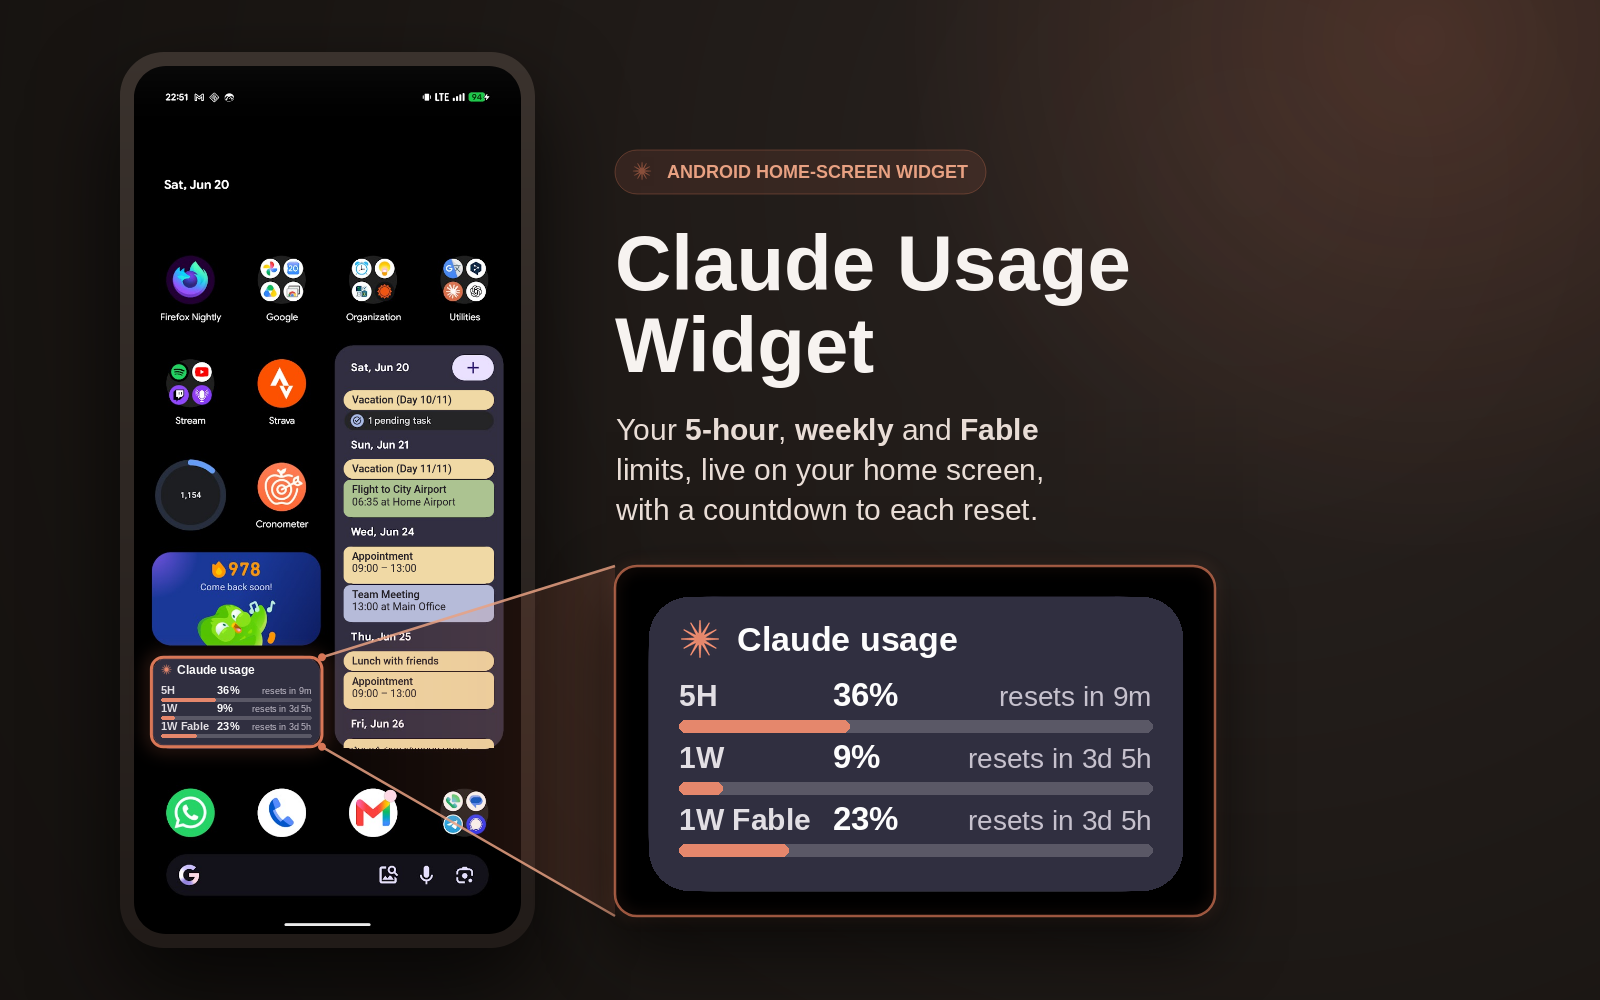
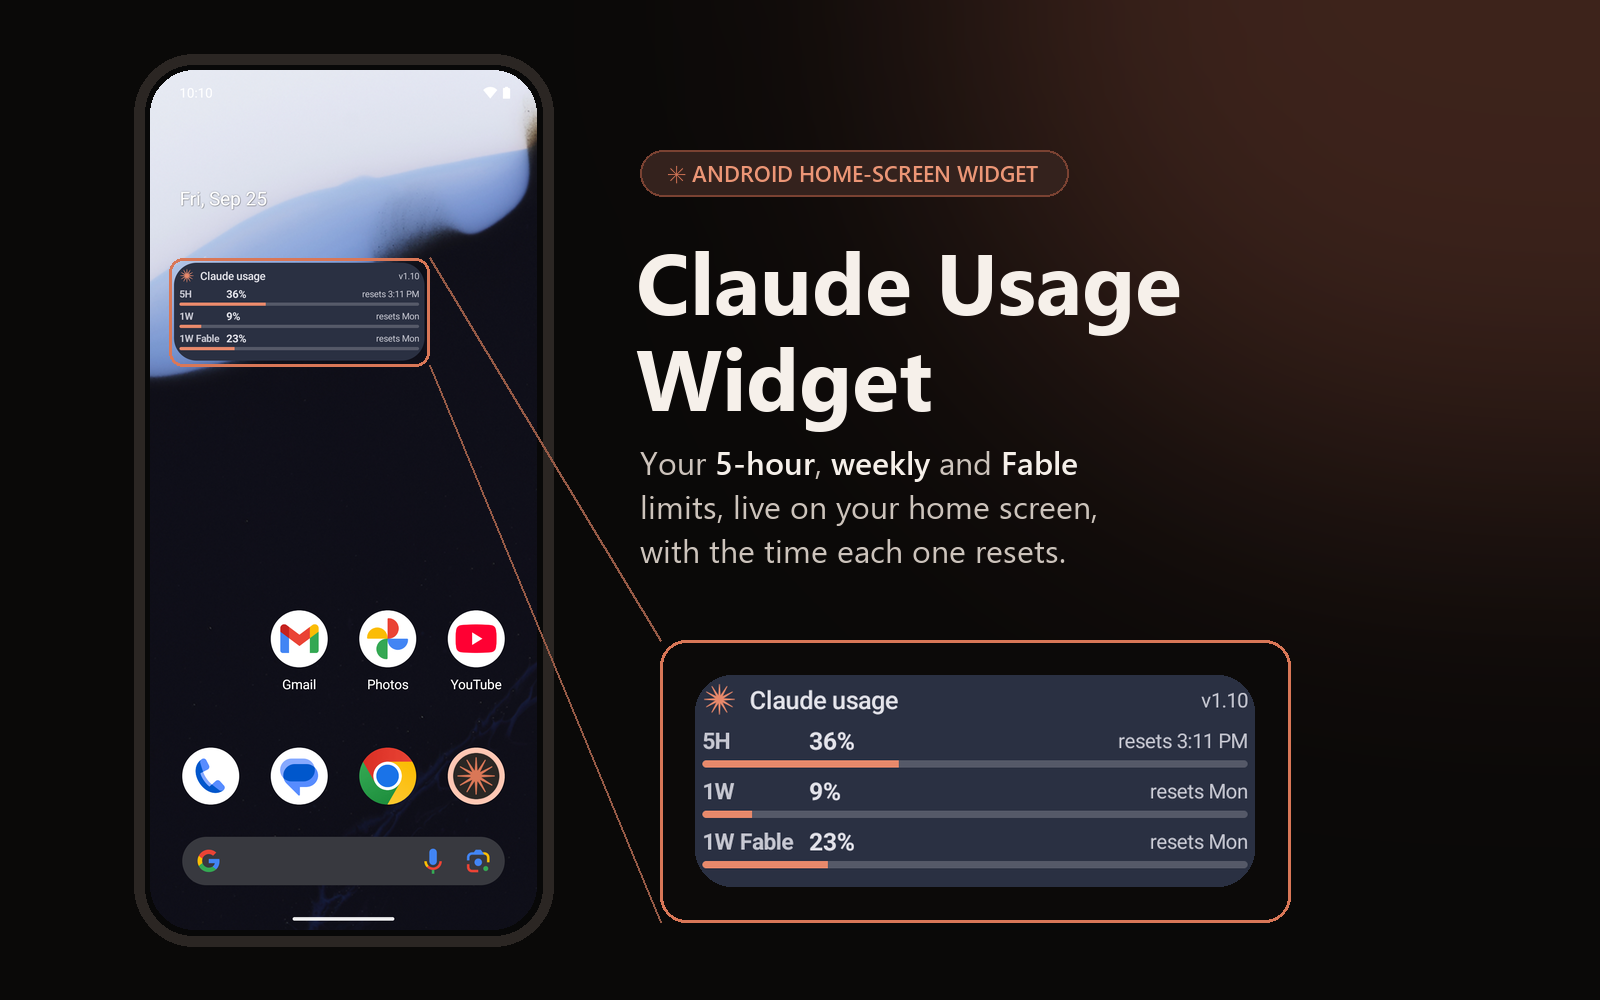
Widget: stacked layout on a one-row (3x1) widget; README screenshots
The stacked layout (header + 5H / 1W / model rows, each with a bar) never appeared on a
one-row widget: SizeMode.Responsive snapped a ~104 dp tall widget to the 140x50 bucket,
which only has the side-by-side layout. The widget now uses SizeMode.Exact and the
stacked layout interpolates its type and spacing between a dense one-row size and the
original roomy look, so a 3x1 widget shows the full stack. Side-by-side remains for a
widget squeezed below a normal row.

README: new promo image (the 3x1 stacked widget, dark mode) and a watch-faces image
(Claude Grid and Claude Terminal on the tactix 8) in the Garmin section; layout text
updated to match.

diff --git a/app/src/main/java/com/usage/claudewidget/widget/UsageGlanceUi.kt b/app/src/main/java/com/usage/claudewidget/widget/UsageGlanceUi.kt
@@ -55,12 +55,18 @@ data class WidgetState(
 
 private val COMPACT_MAX_WIDTH = 130.dp
 /**
- * One home-screen row leaves no room to stack three meters, so a wide-but-short
- * widget sets them side by side instead of clipping the last one off the bottom.
+ * Below this height even the dense stacked layout can't fit three meters, so the widget sets
+ * them side by side instead of clipping the last one off the bottom. (One home-screen row is a
+ * little under 110 dp on a Pixel - tall enough for the dense stacked layout below.)
  */
-private val SHORT_MAX_HEIGHT = 80.dp
-/** Heights below which three meters leave no room for the Claude mark above them. */
-private val FULL_MARK_MIN_HEIGHT = 130.dp
+private val SHORT_MAX_HEIGHT = 70.dp
+/** Below this height the stacked layout switches to its dense sizing (one-row widgets). */
+private val DENSE_MAX_HEIGHT = 130.dp
+/**
+ * The stacked layout with its "Claude usage" header needs about this much height at its densest
+ * (measured on the emulator: 77 dp of content + 12 dp padding). It keeps the header down to here.
+ */
+private val DENSE_MARK_MIN_HEIGHT = 89.dp
 private val COMPACT_MARK_MIN_HEIGHT = 100.dp
 /** Below this width the "resets" prefix is dropped and only the reset time is shown. */
 private val RESET_PREFIX_MIN_WIDTH = 220.dp
@@ -74,6 +80,7 @@ fun UsageWidgetContent(state: WidgetState) {
     val size = LocalSize.current
     val compact = size.width < COMPACT_MAX_WIDTH
     val short = !compact && size.height < SHORT_MAX_HEIGHT
+    val dense = size.height < DENSE_MAX_HEIGHT
     val context = LocalContext.current
 
     val tap = if (state.needsLogin) {
@@ -87,7 +94,7 @@ fun UsageWidgetContent(state: WidgetState) {
             .fillMaxSize()
             .background(GlanceTheme.colors.widgetBackground)
             .cornerRadius(20.dp)
-            .padding(if (short) 6.dp else if (compact) 8.dp else 10.dp)
+            .padding(if (short || dense) 6.dp else if (compact) 8.dp else 10.dp)
             .clickable(tap),
     ) {
         when {
@@ -97,30 +104,71 @@ fun UsageWidgetContent(state: WidgetState) {
             compact -> CompactLayout(state, showMark = size.height >= COMPACT_MARK_MIN_HEIGHT)
             else -> FullLayout(
                 state,
-                showMark = size.height >= FULL_MARK_MIN_HEIGHT,
+                showMark = !dense || size.height >= DENSE_MARK_MIN_HEIGHT,
                 showResetPrefix = size.width >= RESET_PREFIX_MIN_WIDTH,
+                d = stackDims(size.height),
             )
         }
         if (state.hasData && state.stale) StaleDot()
     }
 }
 
+/**
+ * Sizes for the stacked layout. REGULAR is the original roomy look (two rows and up); DENSE is
+ * the same header + three meter rows with bars, tightened to fit a single home-screen row.
+ * [stackDims] interpolates between them by the widget's real height, so a one-row widget fills
+ * its row (a Pixel row is ~104 dp) instead of leaving a gap or clipping.
+ */
+private data class StackDims(
+    val markDp: Float, val titleSp: Float, val versionSp: Float, val headerGap: Float,
+    val labelSp: Float, val labelW: Float, val pctSp: Float, val resetSp: Float,
+    val barGap: Float, val barDp: Float, val rowGap: Float,
+)
+
+private fun stackDims(height: androidx.compose.ui.unit.Dp): StackDims {
+    // t = 0 at the densest height the header layout needs, 1 at the regular layout's height;
+    // the dense layout grows roughly one-for-one with height between them, so it stays full.
+    // (+6 dp keeps a little air under the last bar instead of packing the row edge to edge.)
+    val t = ((height.value - DENSE_MARK_MIN_HEIGHT.value - 6f) /
+        (DENSE_MAX_HEIGHT.value - DENSE_MARK_MIN_HEIGHT.value - 6f)).coerceIn(0f, 1f)
+    fun mix(a: Float, b: Float) = a + (b - a) * t
+    val a = DENSE
+    val b = REGULAR
+    return StackDims(
+        mix(a.markDp, b.markDp), mix(a.titleSp, b.titleSp), mix(a.versionSp, b.versionSp),
+        mix(a.headerGap, b.headerGap), mix(a.labelSp, b.labelSp), mix(a.labelW, b.labelW),
+        mix(a.pctSp, b.pctSp), mix(a.resetSp, b.resetSp), mix(a.barGap, b.barGap),
+        mix(a.barDp, b.barDp), mix(a.rowGap, b.rowGap),
+    )
+}
+
+private val REGULAR = StackDims(
+    markDp = 22f, titleSp = 14f, versionSp = 11f, headerGap = 8f,
+    labelSp = 12f, labelW = 56f, pctSp = 13f, resetSp = 11f, barGap = 3f, barDp = 5f, rowGap = 6f,
+)
+private val DENSE = StackDims(
+    markDp = 14f, titleSp = 11f, versionSp = 9f, headerGap = 2f,
+    labelSp = 10f, labelW = 48f, pctSp = 11f, resetSp = 9f, barGap = 1f, barDp = 3f, rowGap = 2f,
+)
+
 @Composable
-private fun FullLayout(s: WidgetState, showMark: Boolean, showResetPrefix: Boolean) {
+private fun FullLayout(s: WidgetState, showMark: Boolean, showResetPrefix: Boolean, d: StackDims) {
     Column(modifier = GlanceModifier.fillMaxSize()) {
         if (showMark) {
             Row(
                 modifier = GlanceModifier.fillMaxWidth(),
                 verticalAlignment = Alignment.CenterVertically,
             ) {
-                ClaudeMark(22.dp)
+                ClaudeMark(d.markDp.dp)
                 Spacer(GlanceModifier.width(6.dp))
                 Text(
                     "Claude usage",
                     style = TextStyle(
                         color = GlanceTheme.colors.onSurface,
                         fontWeight = FontWeight.Medium,
+                        fontSize = d.titleSp.sp,
                     ),
+                    maxLines = 1,
                 )
                 Spacer(GlanceModifier.defaultWeight())
                 // Version at the right of the header, so an update is confirmable on the
@@ -129,19 +177,19 @@ private fun FullLayout(s: WidgetState, showMark: Boolean, showResetPrefix: Boole
                     "v${s.version}",
                     style = TextStyle(
                         color = GlanceTheme.colors.onSurfaceVariant,
-                        fontSize = 11.sp,
+                        fontSize = d.versionSp.sp,
                     ),
                     maxLines = 1,
                 )
             }
-            Spacer(GlanceModifier.height(8.dp))
+            Spacer(GlanceModifier.height(d.headerGap.dp))
         }
-        MeterRow("5H", s.fiveHourPct, s.fiveHourResets, showResetPrefix)
-        Spacer(GlanceModifier.height(6.dp))
-        MeterRow("1W", s.sevenDayPct, s.sevenDayResets, showResetPrefix)
+        MeterRow("5H", s.fiveHourPct, s.fiveHourResets, showResetPrefix, d)
+        Spacer(GlanceModifier.height(d.rowGap.dp))
+        MeterRow("1W", s.sevenDayPct, s.sevenDayResets, showResetPrefix, d)
         if (s.hasModelWeekly) {
-            Spacer(GlanceModifier.height(6.dp))
-            MeterRow("1W ${s.modelWeeklyName}", s.modelWeeklyPct, s.modelWeeklyResets, showResetPrefix)
+            Spacer(GlanceModifier.height(d.rowGap.dp))
+            MeterRow("1W ${s.modelWeeklyName}", s.modelWeeklyPct, s.modelWeeklyResets, showResetPrefix, d)
         }
     }
 }
@@ -205,7 +253,7 @@ private fun ShortMeter(label: String, pct: Int, resets: String, modifier: Glance
 }
 
 @Composable
-private fun MeterRow(label: String, pct: Int, resets: String, showResetPrefix: Boolean) {
+private fun MeterRow(label: String, pct: Int, resets: String, showResetPrefix: Boolean, d: StackDims) {
     Column(modifier = GlanceModifier.fillMaxWidth()) {
         Row(
             modifier = GlanceModifier.fillMaxWidth(),
@@ -216,30 +264,30 @@ private fun MeterRow(label: String, pct: Int, resets: String, showResetPrefix: B
                 style = TextStyle(
                     color = GlanceTheme.colors.onSurfaceVariant,
                     fontWeight = FontWeight.Bold,
-                    fontSize = 12.sp,
+                    fontSize = d.labelSp.sp,
                 ),
                 maxLines = 1,
                 // Wide enough for the longest label ("1W Fable") so the bars stay aligned.
-                modifier = GlanceModifier.width(56.dp),
+                modifier = GlanceModifier.width(d.labelW.dp),
             )
             Text(
                 "$pct%",
                 style = TextStyle(
                     color = GlanceTheme.colors.onSurface,
                     fontWeight = FontWeight.Bold,
-                    fontSize = 13.sp,
+                    fontSize = d.pctSp.sp,
                 ),
                 maxLines = 1,
             )
             Spacer(GlanceModifier.defaultWeight())
             Text(
                 if (showResetPrefix) "resets $resets" else resets,
-                style = TextStyle(color = GlanceTheme.colors.onSurfaceVariant, fontSize = 11.sp),
+                style = TextStyle(color = GlanceTheme.colors.onSurfaceVariant, fontSize = d.resetSp.sp),
                 maxLines = 1,
             )
         }
-        Spacer(GlanceModifier.height(3.dp))
-        Bar(pct)
+        Spacer(GlanceModifier.height(d.barGap.dp))
+        Bar(pct, height = d.barDp.dp)
     }
 }
 

diff --git a/app/src/main/java/com/usage/claudewidget/widget/UsageWidget.kt b/app/src/main/java/com/usage/claudewidget/widget/UsageWidget.kt
@@ -1,8 +1,6 @@
 package com.usage.claudewidget.widget
 
 import android.content.Context
-import androidx.compose.ui.unit.DpSize
-import androidx.compose.ui.unit.dp
 import androidx.glance.GlanceId
 import androidx.glance.GlanceTheme
 import androidx.glance.appwidget.GlanceAppWidget
@@ -15,16 +13,11 @@ import kotlin.math.roundToInt
 
 class UsageWidget : GlanceAppWidget() {
 
-    // Reusable buckets; Glance maps any real size to the nearest one.
-    override val sizeMode = SizeMode.Responsive(
-        setOf(
-            DpSize(60.dp, 60.dp),    // Compact (~1x1), three mini meters
-            DpSize(60.dp, 110.dp),   // Compact + Claude mark
-            DpSize(140.dp, 50.dp),   // One row tall (~1x2 and 1x3), meters side by side
-            DpSize(180.dp, 110.dp),  // Full, three meters only
-            DpSize(180.dp, 150.dp),  // Full + Claude mark and title
-        )
-    )
+    // Exact: the layout decides from the widget's REAL size. The previous Responsive buckets
+    // made one home-screen row (a little under 110 dp) fall back to the 140x50 bucket, so a
+    // 3x1 widget could only ever get the side-by-side layout - never the stacked one with the
+    // "Claude usage" header, even though the dense stacked layout fits a single row.
+    override val sizeMode = SizeMode.Exact
 
     override suspend fun provideGlance(context: Context, id: GlanceId) {
         provideContent {

diff --git a/README.md b/README.md
@@ -65,6 +65,10 @@ Then continue with first-run setup below.
 
 Three Connect IQ projects put the same usage numbers on a fēnix 8 / tactix 8 class watch:
 
+<p align="center">
+<img src="docs/watchfaces.png" alt="The Claude Grid and Claude Terminal watch faces on a tactix 8" width="720" />
+</p>
+
 | Project | What it is |
 | --- | --- |
 | [`watch-usage-app/`](watch-usage-app/README.md) | **Claude Usage** — a glance showing the `5H` / `1W` / per-model meters with their reset times, and the **publisher**: it receives the numbers from the phone and republishes them as three watch **complications** that faces can show. |
@@ -133,13 +137,13 @@ Anthropic provides no public API for subscription (Pro/Max) usage. This widget r
 - **Every rolling window at a glance.** The 5-hour and 1-week usage percentages plus the separate per-model weekly cap — `1W Fable` today — each with a live countdown to its reset. The model name comes from the endpoint, and the row hides itself on accounts that aren't metered one.
 - **Refreshes itself.** A background job updates every ~15 minutes; tap the widget to force an immediate refresh.
 - **Sign in once.** A single `claude.ai` login; you only re-authenticate when the long-lived session finally expires (weeks).
-- **Resizes freely.** Snaps between a compact and a full layout, and adapts to light & dark themes.
+- **Resizes freely.** The full stacked layout fits even a one-row (3×1) widget; narrower or shorter sizes get compact layouts. Adapts to light & dark themes.
 
 ## 🛠 How it works
 
 You log in once through a real `claude.ai` WebView. The app harvests the `sessionKey` and `cf_clearance` cookies plus the WebView User-Agent, stores them encrypted on-device, and fetches usage headlessly with `OkHttp`. The endpoint serves two payload shapes — a modern top-level `limits[]` array of `{kind, percent, resets_at, scope}` entries, and the older fixed `five_hour` / `seven_day` / `seven_day_<model>` keys — and the parser reads whichever one it gets. When a headless fetch hits Cloudflare's challenge, the app silently re-solves it in an off-screen WebView (no interaction needed while `sessionKey` is valid) and retries. A `WorkManager` job refreshes every ~15 minutes. You only sign in again when the long-lived `sessionKey` itself expires, at which point the widget shows a *“Tap to sign in”* state.
 
-The widget picks a layout from the size you resize it to. A **Full** layout stacks the meters, each with its label, percentage and *“resets in”*; a **Short** layout — one home-screen row tall, two columns or wider — sets the three meters side by side instead, since one row has no space to stack them; and a **Compact** layout stacks mini bars for a narrow widget. The Claude mark and title appear once there's height to fit them, and *“resets in”* shortens to a bare countdown when narrow. All three adapt to light and dark themes, and a small amber dot appears when the numbers are stale.
+The widget picks a layout from the size you resize it to. A **Full** layout stacks the meters, each with its label, bar, percentage and *“resets in”* — down to a single home-screen row, where it tightens its type and spacing to fit the title and all three meters (the layout reads the widget's exact size rather than snapping to preset buckets); a **Short** layout sets the three meters side by side for a widget squeezed below a normal row; and a **Compact** layout stacks mini bars for a narrow widget. The Claude mark and title appear once there's height to fit them, and *“resets in”* shortens to a bare countdown when narrow. All three adapt to light and dark themes, and a small amber dot appears when the numbers are stale.
 
 ## 🔒 Security notes
 
